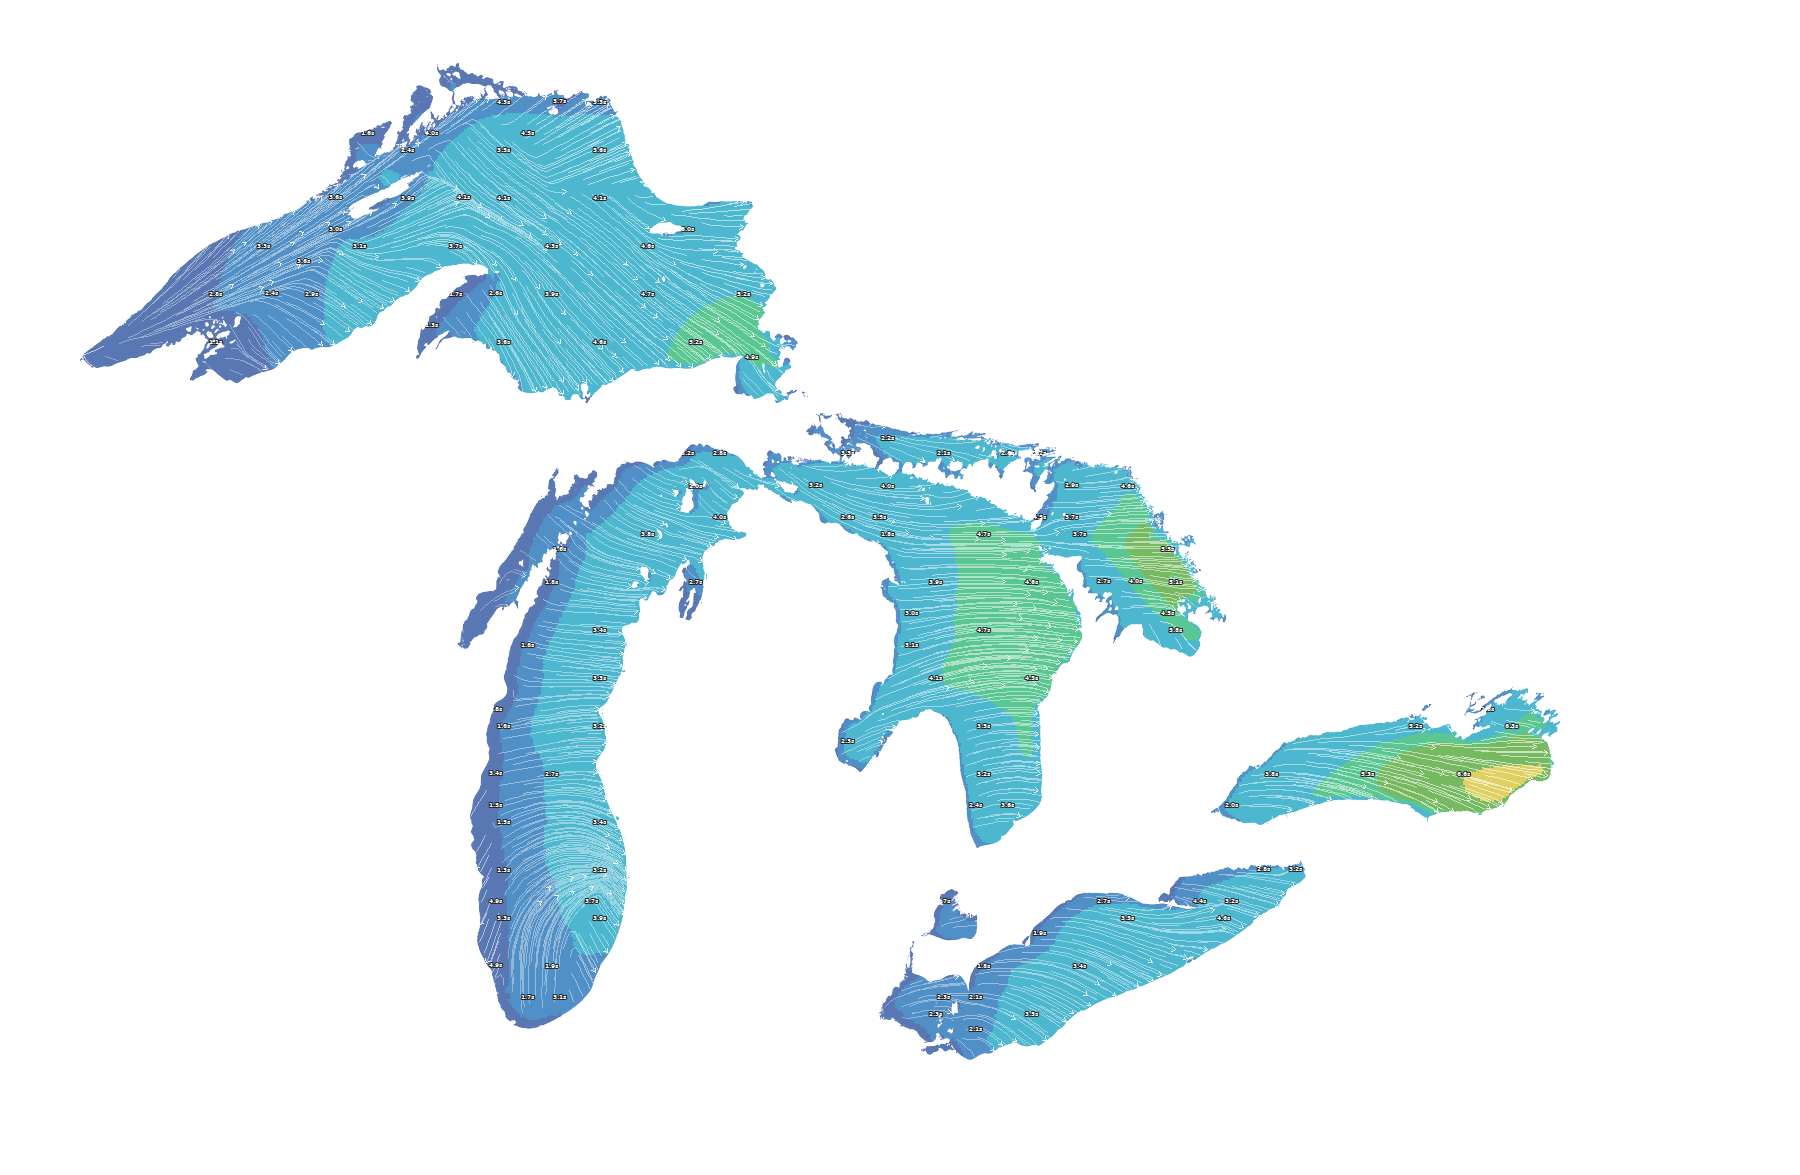
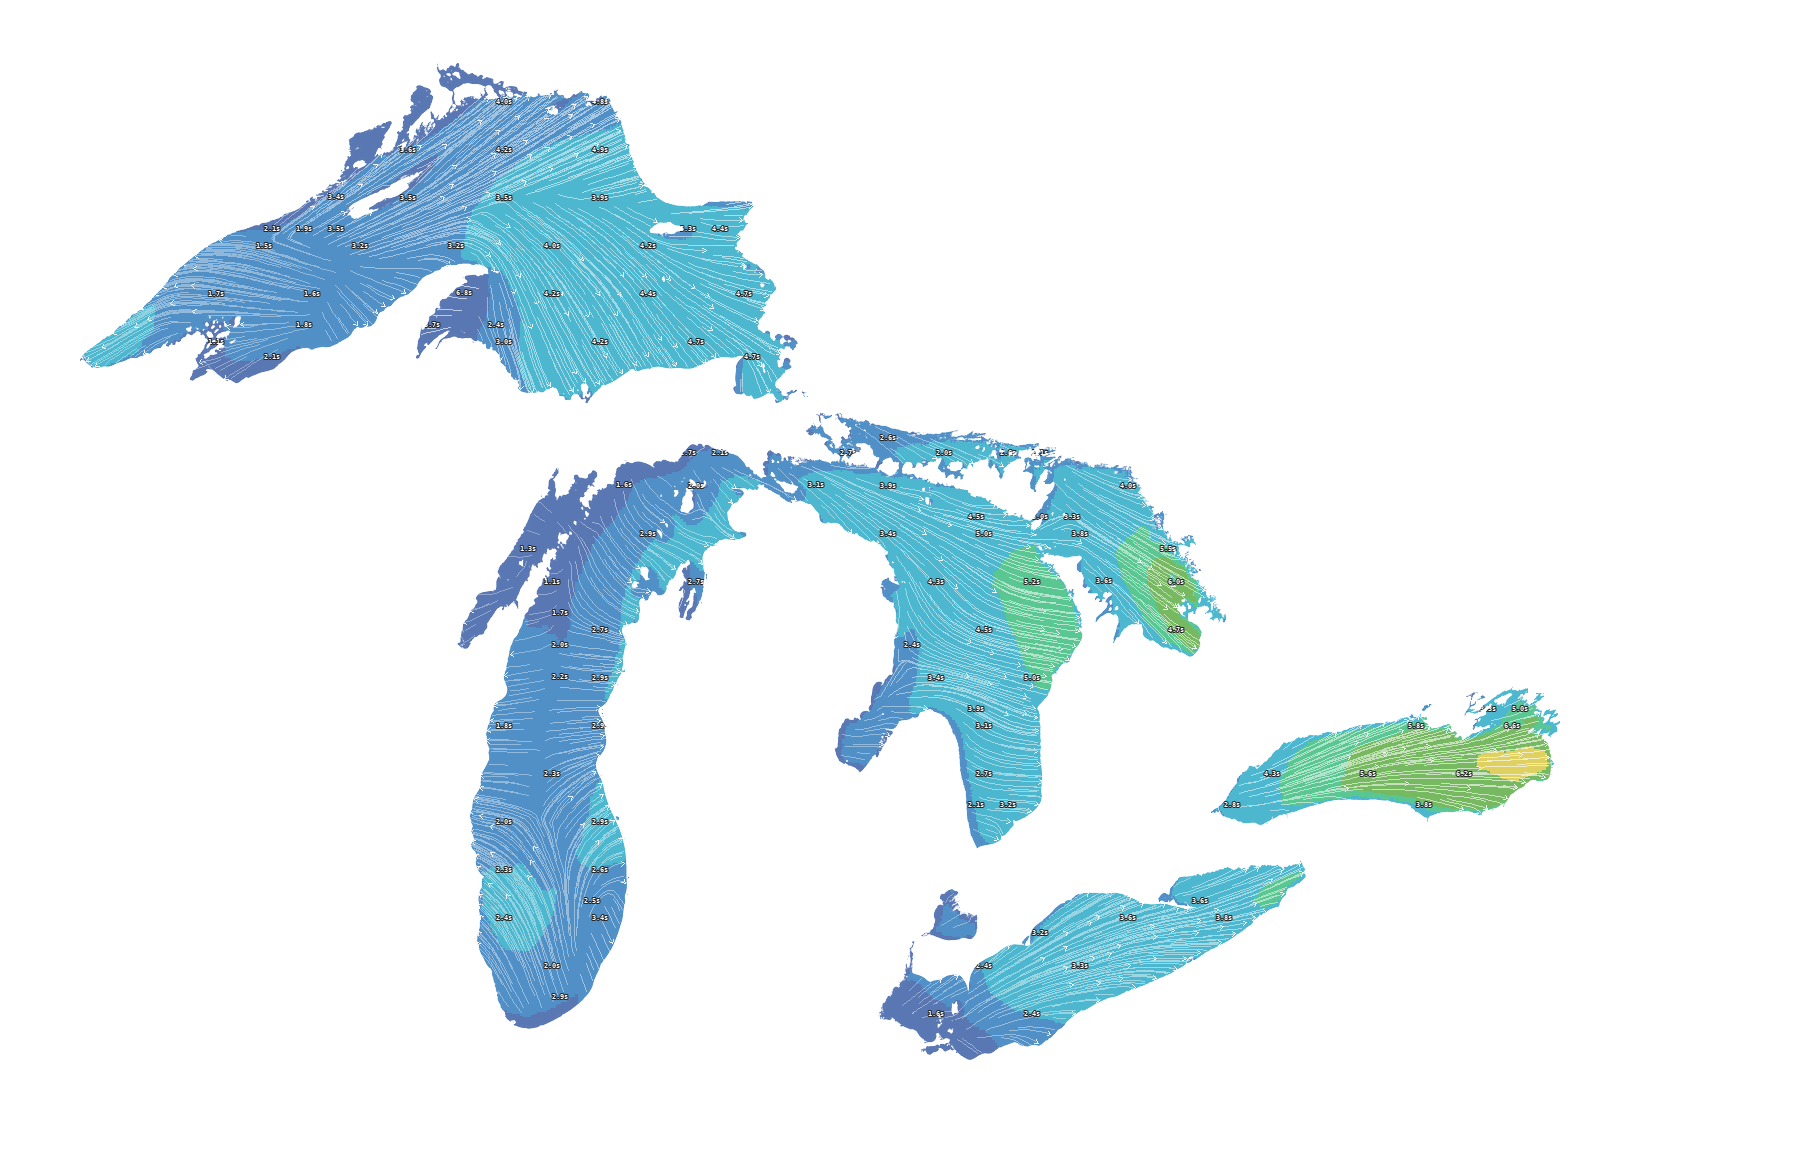
Wave combined: DejaVu Mono Bold 7px labels for crisp tiny text

diff --git a/scripts/build_wave_combined.py b/scripts/build_wave_combined.py
@@ -341,8 +341,8 @@ def wave_travel_uv(filed_deg, period_s):
 # the period field changes even with no arrow nearby.
 
 
-def _label_font(size=6):
-    """DejaVu Sans BOLD at any size (same family CI uses), halo-style labels.
+def _label_font(size=7):
+    """DejaVu Sans Mono BOLD at any size (same family CI uses).
 
     Bold holds a crisp core at tiny sizes where regular collapses into a
     blotch. _legend_font falls back to Helvetica.ttc on macOS, whose
@@ -353,17 +353,17 @@ def _label_font(size=6):
     import glob as _glob
     from PIL import ImageFont as _IF
     cands = [
-        "/usr/share/fonts/truetype/dejavu/DejaVuSans-Bold.ttf",
+        "/usr/share/fonts/truetype/dejavu/DejaVuSansMono-Bold.ttf",
     ]
     try:
         import matplotlib as _mpl
         cands.append(os.path.join(os.path.dirname(_mpl.__file__),
                                   "mpl-data", "fonts", "ttf",
-                                  "DejaVuSans-Bold.ttf"))
+                                  "DejaVuSansMono-Bold.ttf"))
     except Exception:
         pass
-    cands += _glob.glob("/System/Library/Fonts/Supplemental/DejaVuSans-Bold*.ttf")
-    cands += _glob.glob(os.path.expanduser("~/Library/Fonts/DejaVuSans-Bold.ttf"))
+    cands += _glob.glob("/System/Library/Fonts/Supplemental/DejaVuSansMono-Bold*.ttf")
+    cands += _glob.glob(os.path.expanduser("~/Library/Fonts/DejaVuSansMono-Bold.ttf"))
     for path in cands:
         try:
             return _IF.truetype(path, size)
@@ -636,8 +636,8 @@ def main():
         ap.add_argument("--extra-step", type=int, default=32)
         ap.add_argument("--extra-thresh", type=float, default=0.5,
                         help="period-change threshold (s) for extra labels")
-        ap.add_argument("--font-size", type=int, default=6,
-                        help="period label font size px (default 6)")
+        ap.add_argument("--font-size", type=int, default=7,
+                        help="period label font size px (default 7)")
         ap.add_argument("--direction-style", default="stream",
                         choices=["arrows", "stream"],
                         help="direction glyphs: classic arrows or "
@@ -659,7 +659,7 @@ def main():
 
 
 def run(local_file=None, label_every=2, extra_step=32, extra_thresh=0.5,
-        font_size=6, direction_style="stream", preview_dir=None):
+        font_size=7, direction_style="stream", preview_dir=None):
     now = datetime.now(timezone.utc)
     raw_path = os.path.join(RAW_DIR, "glwu_combined_current.grib2")
     used_url, datestr, cycle, stamp = None, None, None, None
@@ -712,7 +712,7 @@ def run(local_file=None, label_every=2, extra_step=32, extra_thresh=0.5,
 
 
 def _build(raw_path, used_url, datestr, cycle, source_id,
-           label_every, extra_step, extra_thresh, font_size=6,
+           label_every, extra_step, extra_thresh, font_size=7,
            direction_style="stream", preview_dir=None):
     stage = stage_dir(PRODUCT)
     stage_prod = os.path.join(stage, "site", PRODUCT)
@@ -866,7 +866,7 @@ def _build(raw_path, used_url, datestr, cycle, source_id,
     # Render settings ride the version token: same-cycle restyles MUST
     # change the ?v= URL or every cache keeps serving the old pixels.
     # TEXT_REV bumps on any glyph/style change (font, halo, density).
-    TEXT_REV = 3
+    TEXT_REV = 4
     meta["source_version"] = source_token(
         f"{source_id}-r{RENDER_VERSION}-{direction_style}-f{font_size}"
         f"-tx{TEXT_REV}")
